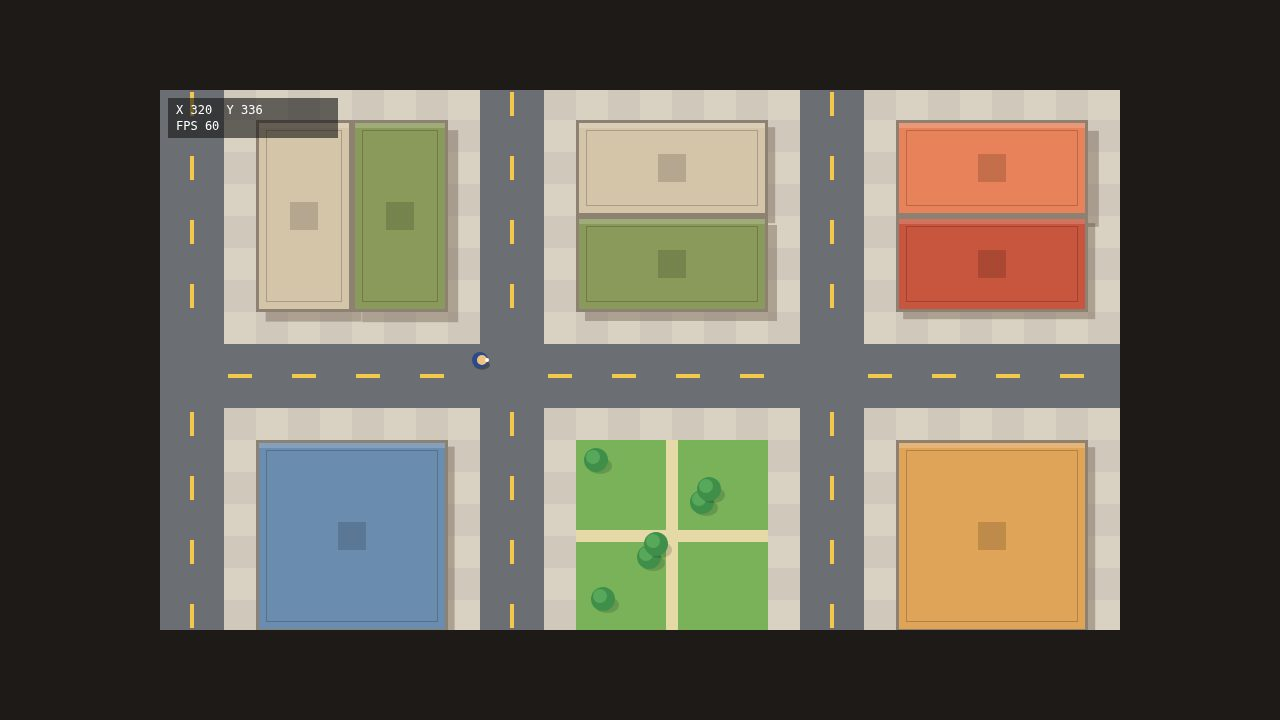
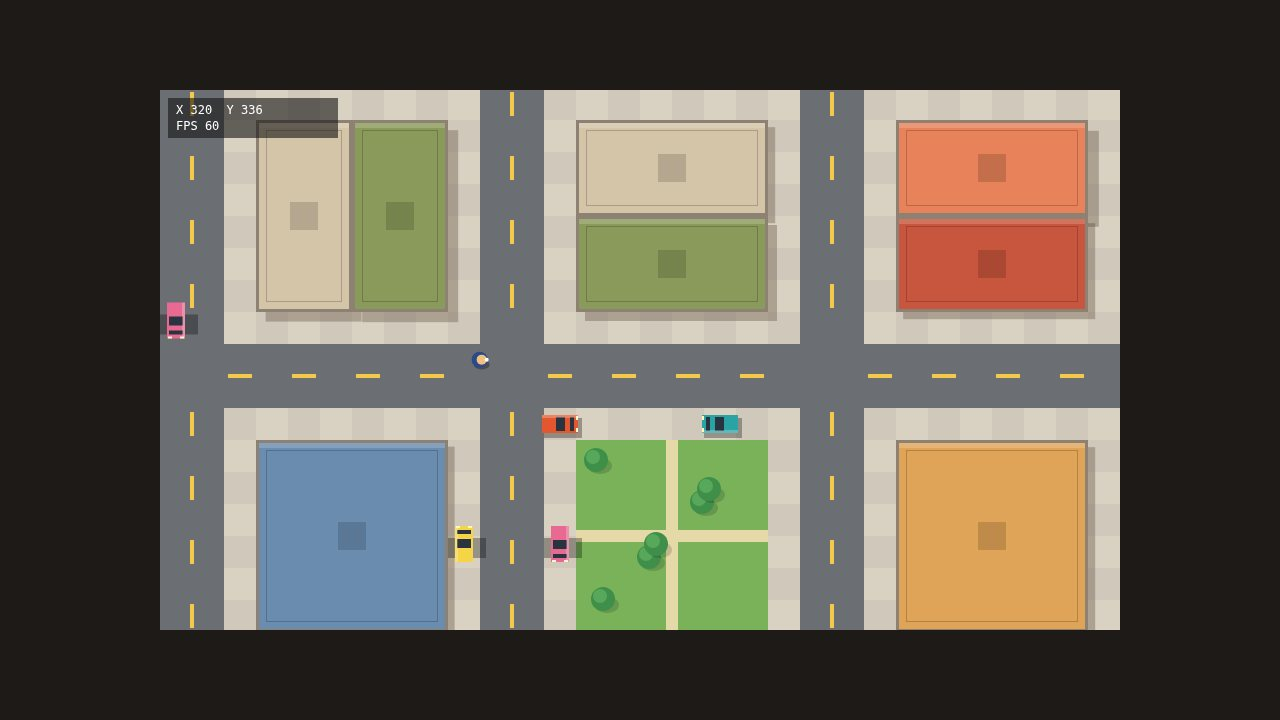
feat(L4): kendaraan (masuk/keluar E), fisika mengemudi, lalu lintas NPC + screenshot baru
Dibangun Qwen Code di bawah recording 01a1f021: desain oleh anthropic/claude-opus-5,
implementasi oleh anthropic/claude-sonnet-5.5.

diff --git a/game/src/vehicle.js b/game/src/vehicle.js
@@ -1,0 +1,155 @@
+import { TILE, T, tileAt } from './world.js';
+
+const ACCEL = 260, BRAKE = 420, DRAG = 0.9, TURN = 2.4, MAX = 320, REVERSE_MAX = -90;
+const CRUISE = 130, NPC_COUNT = 14, LOOKAHEAD = 40, FOLLOW_DISTANCE = 50, FOLLOW_ANGLE = 0.6;
+const ENTER_RANGE = 46, HALF_LENGTH = 18, HALF_WIDTH = 9;
+const ROAD_PERIOD = 10 * TILE, ROAD_WIDTH = 2 * TILE, PHASE_SECONDS = 6, STOP_MARGIN = 6;
+const COLORS = ['#e4572e', '#f3a712', '#29a3a3', '#4f86f7', '#e86a92', '#7bc950', '#f5d547', '#a06cd5'];
+const PARKED_SPOTS = [[400, 400, 0], [560, 400, Math.PI], [400, 520, Math.PI / 2], [304, 520, -Math.PI / 2]];
+
+function seededRandom(seed) {
+  return () => {
+    seed = (seed * 1664525 + 1013904223) >>> 0;
+    return seed / 4294967296;
+  };
+}
+
+function makeCar(x, y, angle, color, driver) {
+  return { x, y, angle, speed: 0, color, driver };
+}
+
+export function createCars(world, spawnX, spawnY) {
+  const rand = seededRandom(2026);
+  const cars = [];
+  PARKED_SPOTS.forEach(([x, y, angle], i) => cars.push(makeCar(x, y, angle, COLORS[i * 2 % COLORS.length], null)));
+
+  let attempts = 0;
+  while (cars.length < PARKED_SPOTS.length + NPC_COUNT && attempts++ < 500) {
+    const axis = rand() < 0.5 ? 'h' : 'v';
+    const roadStart = Math.floor(rand() * (world.width / ROAD_PERIOD)) * ROAD_PERIOD;
+    const positiveLane = rand() < 0.5;
+    const lane = roadStart + (positiveLane === (axis === 'h') ? 48 : 16);
+    const dir = positiveLane ? 1 : -1;
+    const along = 40 + rand() * (world.width - 80);
+    const inIntersection = along % ROAD_PERIOD < ROAD_WIDTH + 40 || along % ROAD_PERIOD > ROAD_PERIOD - 40;
+    if (inIntersection) continue;
+    const x = axis === 'h' ? along : lane, y = axis === 'h' ? lane : along;
+    if (Math.hypot(x - spawnX, y - spawnY) < 200) continue;
+    if (cars.some((c) => Math.hypot(c.x - x, c.y - y) < 80)) continue;
+    const angle = axis === 'h' ? (dir > 0 ? 0 : Math.PI) : (dir > 0 ? Math.PI / 2 : -Math.PI / 2);
+    const car = makeCar(x, y, angle, COLORS[Math.floor(rand() * COLORS.length)], 'npc');
+    car.axis = axis; car.lane = lane; car.dir = dir; car.speed = CRUISE;
+    cars.push(car);
+  }
+  world.cars = cars;
+  world.time = 0;
+}
+
+export function updateDrivenCar(car, keys, world, dt) {
+  const throttle = (keys.has('w') || keys.has('arrowup') ? 1 : 0) - (keys.has('s') || keys.has('arrowdown') ? 0.6 : 0);
+  const steer = (keys.has('d') || keys.has('arrowright') ? 1 : 0) - (keys.has('a') || keys.has('arrowleft') ? 1 : 0);
+  const previous = { x: car.x, y: car.y, angle: car.angle };
+
+  car.speed += (throttle > 0 ? ACCEL * throttle : BRAKE * throttle) * dt;
+  car.speed *= 1 - DRAG * dt;
+  car.speed = Math.max(REVERSE_MAX, Math.min(MAX, car.speed));
+  car.angle += steer * TURN * dt * (car.speed / MAX) * Math.sign(car.speed);
+  car.x += Math.cos(car.angle) * car.speed * dt;
+  car.y += Math.sin(car.angle) * car.speed * dt;
+
+  if (hitsBuilding(car, world)) {
+    car.x = previous.x; car.y = previous.y; car.angle = previous.angle;
+    car.speed *= -0.25;
+  }
+}
+
+function hitsBuilding(car, world) {
+  const cos = Math.cos(car.angle), sin = Math.sin(car.angle);
+  for (const [lx, ly] of [[HALF_LENGTH, HALF_WIDTH], [HALF_LENGTH, -HALF_WIDTH], [-HALF_LENGTH, HALF_WIDTH], [-HALF_LENGTH, -HALF_WIDTH]]) {
+    if (tileAt(world, car.x + lx * cos - ly * sin, car.y + lx * sin + ly * cos) === T.BUILDING) return true;
+  }
+  return false;
+}
+
+export function updateTraffic(world, dt) {
+  world.time += dt;
+  for (const car of world.cars) {
+    if (car.driver === 'npc') updateNpc(car, world, dt);
+  }
+}
+
+function updateNpc(car, world, dt) {
+  const horizontal = car.axis === 'h';
+  const along = horizontal ? car.x : car.y;
+  const targetX = horizontal ? car.x + car.dir * LOOKAHEAD : car.lane;
+  const targetY = horizontal ? car.lane : car.y + car.dir * LOOKAHEAD;
+  const wanted = Math.atan2(targetY - car.y, targetX - car.x);
+  const diff = Math.atan2(Math.sin(wanted - car.angle), Math.cos(wanted - car.angle));
+  const maxTurn = TURN * dt;
+  car.angle += Math.max(-maxTurn, Math.min(maxTurn, diff));
+
+  const desired = blockedByCar(car, world) || mustStopAtLight(car, along, world.time) ? 0 : CRUISE;
+  if (car.speed < desired) car.speed = Math.min(desired, car.speed + ACCEL * dt);
+  else car.speed = Math.max(desired, car.speed - BRAKE * dt);
+
+  car.x += Math.cos(car.angle) * car.speed * dt;
+  car.y += Math.sin(car.angle) * car.speed * dt;
+
+  const limit = world.width - 30;
+  if (horizontal) { if (car.x > limit) car.x = 30; else if (car.x < 30) car.x = limit; }
+  else if (car.y > limit) car.y = 30; else if (car.y < 30) car.y = limit;
+}
+
+function blockedByCar(car, world) {
+  for (const other of world.cars) {
+    if (other === car) continue;
+    const dx = other.x - car.x, dy = other.y - car.y;
+    if (dx * dx + dy * dy > FOLLOW_DISTANCE * FOLLOW_DISTANCE) continue;
+    const relative = Math.atan2(Math.sin(Math.atan2(dy, dx) - car.angle), Math.cos(Math.atan2(dy, dx) - car.angle));
+    if (Math.abs(relative) < FOLLOW_ANGLE) return true;
+  }
+  return false;
+}
+
+function mustStopAtLight(car, along, time) {
+  const greenAxis = Math.floor(time / PHASE_SECONDS) % 2 === 0 ? 'h' : 'v';
+  if (greenAxis === car.axis) return false;
+  const base = Math.floor(along / ROAD_PERIOD) * ROAD_PERIOD;
+  const frontDistance = car.dir > 0
+    ? base + ROAD_PERIOD - (along + HALF_LENGTH)
+    : along - HALF_LENGTH - (along - base < ROAD_WIDTH ? base - ROAD_PERIOD + ROAD_WIDTH : base + ROAD_WIDTH);
+  return frontDistance > -4 && frontDistance <= STOP_MARGIN + (car.speed * car.speed) / (2 * BRAKE);
+}
+
+export function nearestEnterable(world, player) {
+  let best = null, bestDistance = ENTER_RANGE;
+  for (const car of world.cars) {
+    if (car.driver !== null) continue;
+    const distance = Math.hypot(car.x - player.x, car.y - player.y);
+    if (distance < bestDistance) { best = car; bestDistance = distance; }
+  }
+  return best;
+}
+
+export function toggleVehicle(world, player) {
+  const car = player.car;
+  if (!car) {
+    const target = nearestEnterable(world, player);
+    if (!target) return;
+    target.driver = 'player';
+    player.car = target;
+    player.vx = 0; player.vy = 0;
+    return;
+  }
+  const side = car.angle + Math.PI / 2;
+  const exits = [1, -1].map((s) => [car.x + Math.cos(side) * s * 28, car.y + Math.sin(side) * s * 28]);
+  const [exitX, exitY] = exits.find(([x, y]) => tileAt(world, x, y) !== T.BUILDING) || [car.x, car.y];
+  player.x = exitX; player.y = exitY; player.vx = 0; player.vy = 0;
+  car.driver = null;
+  car.speed = 0;
+  player.car = null;
+}
+
+export function carFocus(car) {
+  return { x: car.x, y: car.y, vx: Math.cos(car.angle) * car.speed, vy: Math.sin(car.angle) * car.speed };
+}

diff --git a/game/src/render.js b/game/src/render.js
@@ -1,4 +1,5 @@
 import { TILE, COLS, ROWS, T } from './world.js';
+import { nearestEnterable } from './vehicle.js';
 
 const COLORS = { [T.ROAD]: '#6b6e73', [T.SIDEWALK]: '#d9d2c3', [T.GRASS]: '#8fc16a', [T.BUILDING]: '#a89f91' };
 
@@ -7,20 +8,22 @@ export function render(ctx, world, player, cam, fps) {
   ctx.fillStyle = '#f3e3b5';
   ctx.fillRect(0, 0, viewW, viewH);
   ctx.save();
+  ctx.scale(cam.zoom, cam.zoom);
   ctx.translate(-Math.round(cam.x), -Math.round(cam.y));
 
   drawGround(ctx, world, cam);
   drawParks(ctx, world, cam);
   drawBuildings(ctx, world, cam);
-  drawPlayer(ctx, player);
+  drawCars(ctx, world, cam);
+  if (!player.car) drawPlayer(ctx, player);
 
   ctx.restore();
-  drawHud(ctx, player, fps);
+  drawHud(ctx, world, player, fps);
 }
 
 function drawGround(ctx, world, cam) {
-  const x0 = Math.max(0, Math.floor(cam.x / TILE)), x1 = Math.min(COLS - 1, Math.floor((cam.x + cam.viewW) / TILE));
-  const y0 = Math.max(0, Math.floor(cam.y / TILE)), y1 = Math.min(ROWS - 1, Math.floor((cam.y + cam.viewH) / TILE));
+  const x0 = Math.max(0, Math.floor(cam.x / TILE)), x1 = Math.min(COLS - 1, Math.floor((cam.x + cam.visW) / TILE));
+  const y0 = Math.max(0, Math.floor(cam.y / TILE)), y1 = Math.min(ROWS - 1, Math.floor((cam.y + cam.visH) / TILE));
   for (let y = y0; y <= y1; y++) {
     for (let x = x0; x <= x1; x++) {
       const t = world.tiles[y * COLS + x];
@@ -88,15 +91,50 @@ function drawPlayer(ctx, p) {
   ctx.beginPath(); ctx.arc(p.x + Math.cos(p.facing) * 7, p.y + Math.sin(p.facing) * 7, 2, 0, 7); ctx.fill();
 }
 
-function drawHud(ctx, p, fps) {
+function drawCars(ctx, world, cam) {
+  for (const car of world.cars) {
+    if (!visible({ x: car.x - 24, y: car.y - 24, w: 48, h: 48 }, cam)) continue;
+    ctx.save();
+    ctx.translate(car.x, car.y);
+    ctx.fillStyle = 'rgba(0,0,0,0.3)';
+    ctx.fillRect(-16, -6, 38, 20);
+    ctx.rotate(car.angle);
+    ctx.fillStyle = car.color;
+    ctx.fillRect(-18, -9, 36, 18);
+    ctx.fillStyle = '#2a3340';
+    ctx.fillRect(-4, -7, 9, 14);
+    ctx.fillRect(10, -7, 4, 14);
+    ctx.fillStyle = 'rgba(255,255,255,0.25)';
+    ctx.fillRect(-18, -9, 36, 3);
+    ctx.fillStyle = '#fff6c8';
+    ctx.fillRect(16, -8, 2, 4);
+    ctx.fillRect(16, 4, 2, 4);
+    ctx.restore();
+  }
+}
+
+function drawHud(ctx, world, p, fps) {
+  const car = p.car;
   ctx.fillStyle = 'rgba(20,20,20,0.6)';
-  ctx.fillRect(8, 8, 170, 40);
+  ctx.fillRect(8, 8, 170, car ? 56 : 40);
   ctx.fillStyle = '#fff';
   ctx.font = '12px monospace';
-  ctx.fillText(`X ${p.x.toFixed(0)}  Y ${p.y.toFixed(0)}`, 16, 24);
-  ctx.fillText(`FPS ${fps}${p.sprinting ? '  SPRINT' : ''}`, 16, 40);
+  const pos = car || p;
+  ctx.fillText(`X ${pos.x.toFixed(0)}  Y ${pos.y.toFixed(0)}`, 16, 24);
+  ctx.fillText(`FPS ${fps}${p.sprinting && !car ? '  SPRINT' : ''}`, 16, 40);
+  if (car) {
+    ctx.fillText(`${Math.round(Math.abs(car.speed) * 0.36)} km/j`, 16, 56);
+    ctx.fillText('E: keluar mobil', 16, 530);
+  } else if (nearestEnterable(world, p)) {
+    ctx.fillStyle = 'rgba(20,20,20,0.7)';
+    ctx.fillRect(380, 490, 200, 28);
+    ctx.fillStyle = '#fff';
+    ctx.textAlign = 'center';
+    ctx.fillText('E: masuk/keluar mobil', 480, 508);
+    ctx.textAlign = 'left';
+  }
 }
 
 function visible(r, cam) {
-  return r.x < cam.x + cam.viewW && r.x + r.w > cam.x && r.y < cam.y + cam.viewH && r.y + r.h > cam.y;
+  return r.x < cam.x + cam.visW && r.x + r.w > cam.x && r.y < cam.y + cam.visH && r.y + r.h > cam.y;
 }

diff --git a/game/src/main.js b/game/src/main.js
@@ -2,16 +2,20 @@ import { createWorld } from './world.js';
 import { createPlayer, updatePlayer } from './player.js';
 import { createCamera, updateCamera } from './camera.js';
 import { render } from './render.js';
+import { createCars, updateDrivenCar, updateTraffic, toggleVehicle, carFocus } from './vehicle.js';
 
 const canvas = document.getElementById('game');
 const ctx = canvas.getContext('2d');
 const world = createWorld();
 const player = createPlayer(10 * 32, 10 * 32 + 16);
+player.car = null;
+createCars(world, player.x, player.y);
 const camera = createCamera(canvas.width, canvas.height);
 const keys = new Set();
 
 addEventListener('keydown', (e) => {
   const k = e.key.toLowerCase();
+  if (k === 'e' && !e.repeat) toggleVehicle(world, player);
   keys.add(k);
   if (k.startsWith('arrow') || k === ' ') e.preventDefault();
 });
@@ -27,8 +31,11 @@ function frame(now) {
   last = now;
   frames++; fpsTimer += dt;
   if (fpsTimer >= 0.5) { fps = Math.round(frames / fpsTimer); frames = 0; fpsTimer = 0; }
-  updatePlayer(player, keys, world, dt);
-  updateCamera(camera, player, world, dt);
+  const car = player.car;
+  if (car) updateDrivenCar(car, keys, world, dt);
+  else updatePlayer(player, keys, world, dt);
+  updateTraffic(world, dt);
+  updateCamera(camera, car ? carFocus(car) : player, world, dt, !!car);
   render(ctx, world, player, camera, fps);
   requestAnimationFrame(frame);
 }

diff --git a/game/src/camera.js b/game/src/camera.js
@@ -1,13 +1,19 @@
+const DRIVE_ZOOM = 0.75;
+
 export function createCamera(viewW, viewH) {
-  return { x: 0, y: 0, viewW, viewH };
+  return { x: 0, y: 0, viewW, viewH, zoom: 1, visW: viewW, visH: viewH };
 }
 
-export function updateCamera(cam, target, world, dt) {
+export function updateCamera(cam, target, world, dt, driving = false) {
   const k = 1 - Math.exp(-6 * dt);
-  const tx = target.x + target.vx * 0.25 - cam.viewW / 2;
-  const ty = target.y + target.vy * 0.25 - cam.viewH / 2;
+  cam.zoom += ((driving ? DRIVE_ZOOM : 1) - cam.zoom) * (1 - Math.exp(-3 * dt));
+  cam.visW = cam.viewW / cam.zoom;
+  cam.visH = cam.viewH / cam.zoom;
+  const lookAhead = driving ? 0.7 : 0.25;
+  const tx = target.x + target.vx * lookAhead - cam.visW / 2;
+  const ty = target.y + target.vy * lookAhead - cam.visH / 2;
   cam.x += (tx - cam.x) * k;
   cam.y += (ty - cam.y) * k;
-  cam.x = Math.max(0, Math.min(world.width - cam.viewW, cam.x));
-  cam.y = Math.max(0, Math.min(world.height - cam.viewH, cam.y));
+  cam.x = Math.max(0, Math.min(world.width - cam.visW, cam.x));
+  cam.y = Math.max(0, Math.min(world.height - cam.visH, cam.y));
 }
